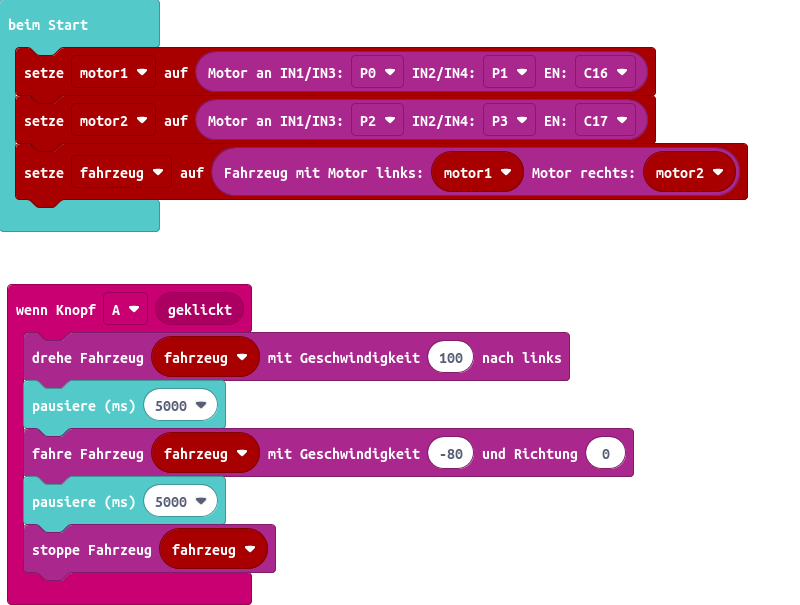
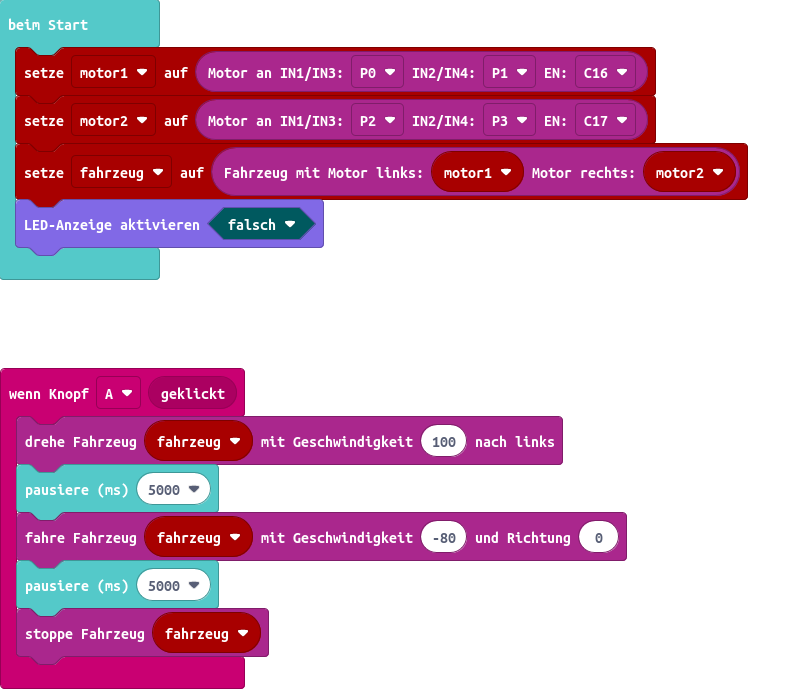
Aktualisiere main.blocks, main.ts

diff --git a/main.ts b/main.ts
@@ -9,3 +9,4 @@ let fahrzeug: l298.Vehicle = null
 let motor1 = l298.create_motor(DigitalPin.P0, DigitalPin.P1, AnalogPin.C16)
 let motor2 = l298.create_motor(DigitalPin.P2, DigitalPin.P3, AnalogPin.C17)
 fahrzeug = l298.create_vehicle(motor1, motor2)
+led.enable(false)
